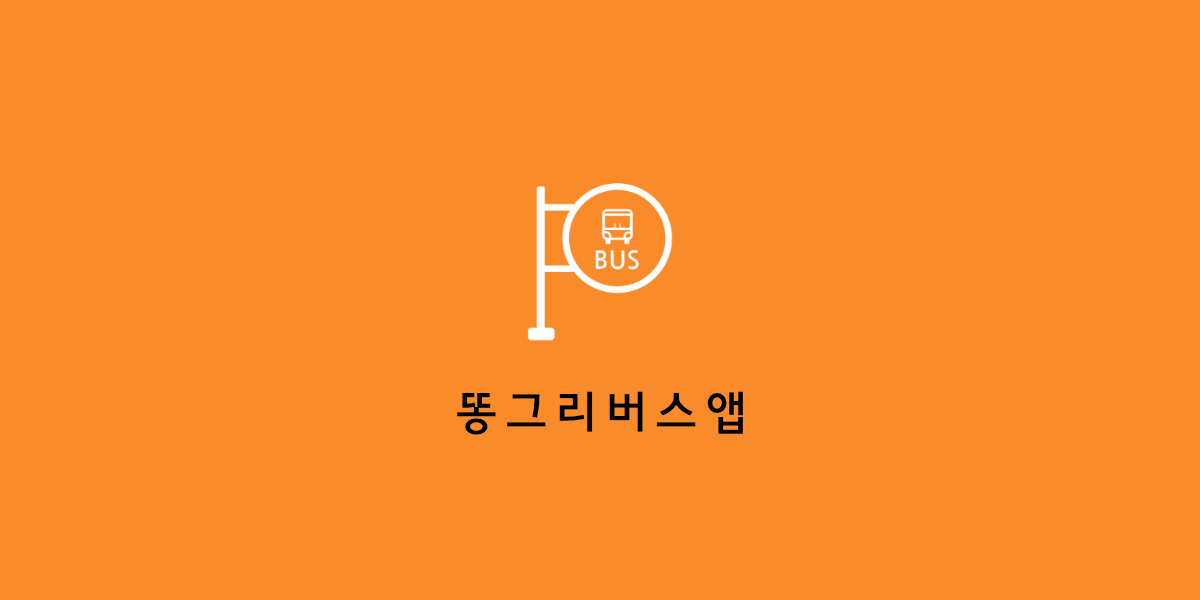
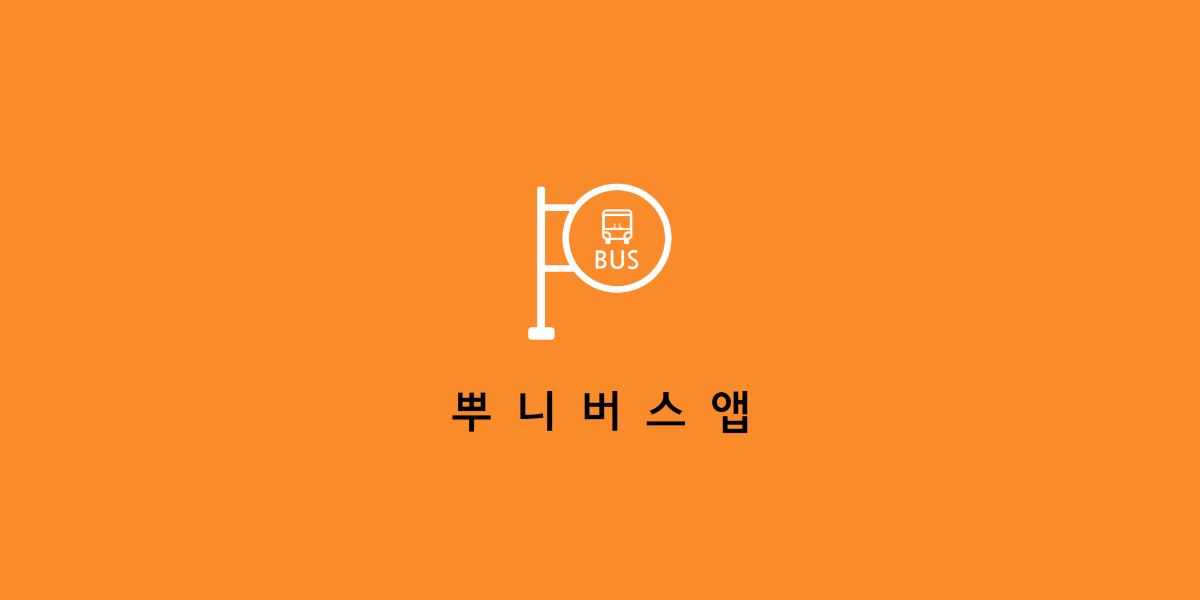
Change site names and resources

diff --git a/_includes/about.html b/_includes/about.html
@@ -3,9 +3,9 @@
   <div class="row">
     <div class="col-lg-8 col-lg-offset-2">
       <br /><br />
-      <h2>똥그리버스에 대하여</h2>
+      <h2>뿌니버스에 대하여</h2>
       <br />
-      <p>똥그리버스는 제주도를 위해 개발된 버스 경로 찾기 앱 입니다.</p>
+      <p>뿌니버스는 제주도를 위해 개발된 버스 경로 찾기 앱 입니다.</p>
       <p>제주도의 수백여개의 달하는 각 노선들의 도착시간을 고려해 경로를 검색하며,</p>
       <p>이를 통해 특정 시점에서 더 나은 경로를 검색합니다.</p>
       <p>현재 시간 기준 검색부터, 미래 시간 기준으로 검색이 가능하며,</p>

diff --git a/_includes/social_share.html b/_includes/social_share.html
@@ -19,7 +19,7 @@
         Kakao.Link.sendDefault({
             objectType: 'feed',
             content: {
-                title: "똥그리버스",
+                title: "뿌니버스",
                 description: "제주도를 위해 만들어진 버스앱",
                 imageUrl: '{{site.baseUrl}}{{ "/img/og-img.png" | relative_url}}',
                 link: {

diff --git a/_includes/contact.html b/_includes/contact.html
@@ -4,7 +4,7 @@
 
 			<div class="row">
 				<div class="col-lg-6">
-					<h2>똥그리버스 공유하기</h2>
+					<h2>뿌니버스 공유하기</h2>
 				</div>
 				<div class="col-lg-6">
 					<ul class="list-inline banner-social-buttons">
